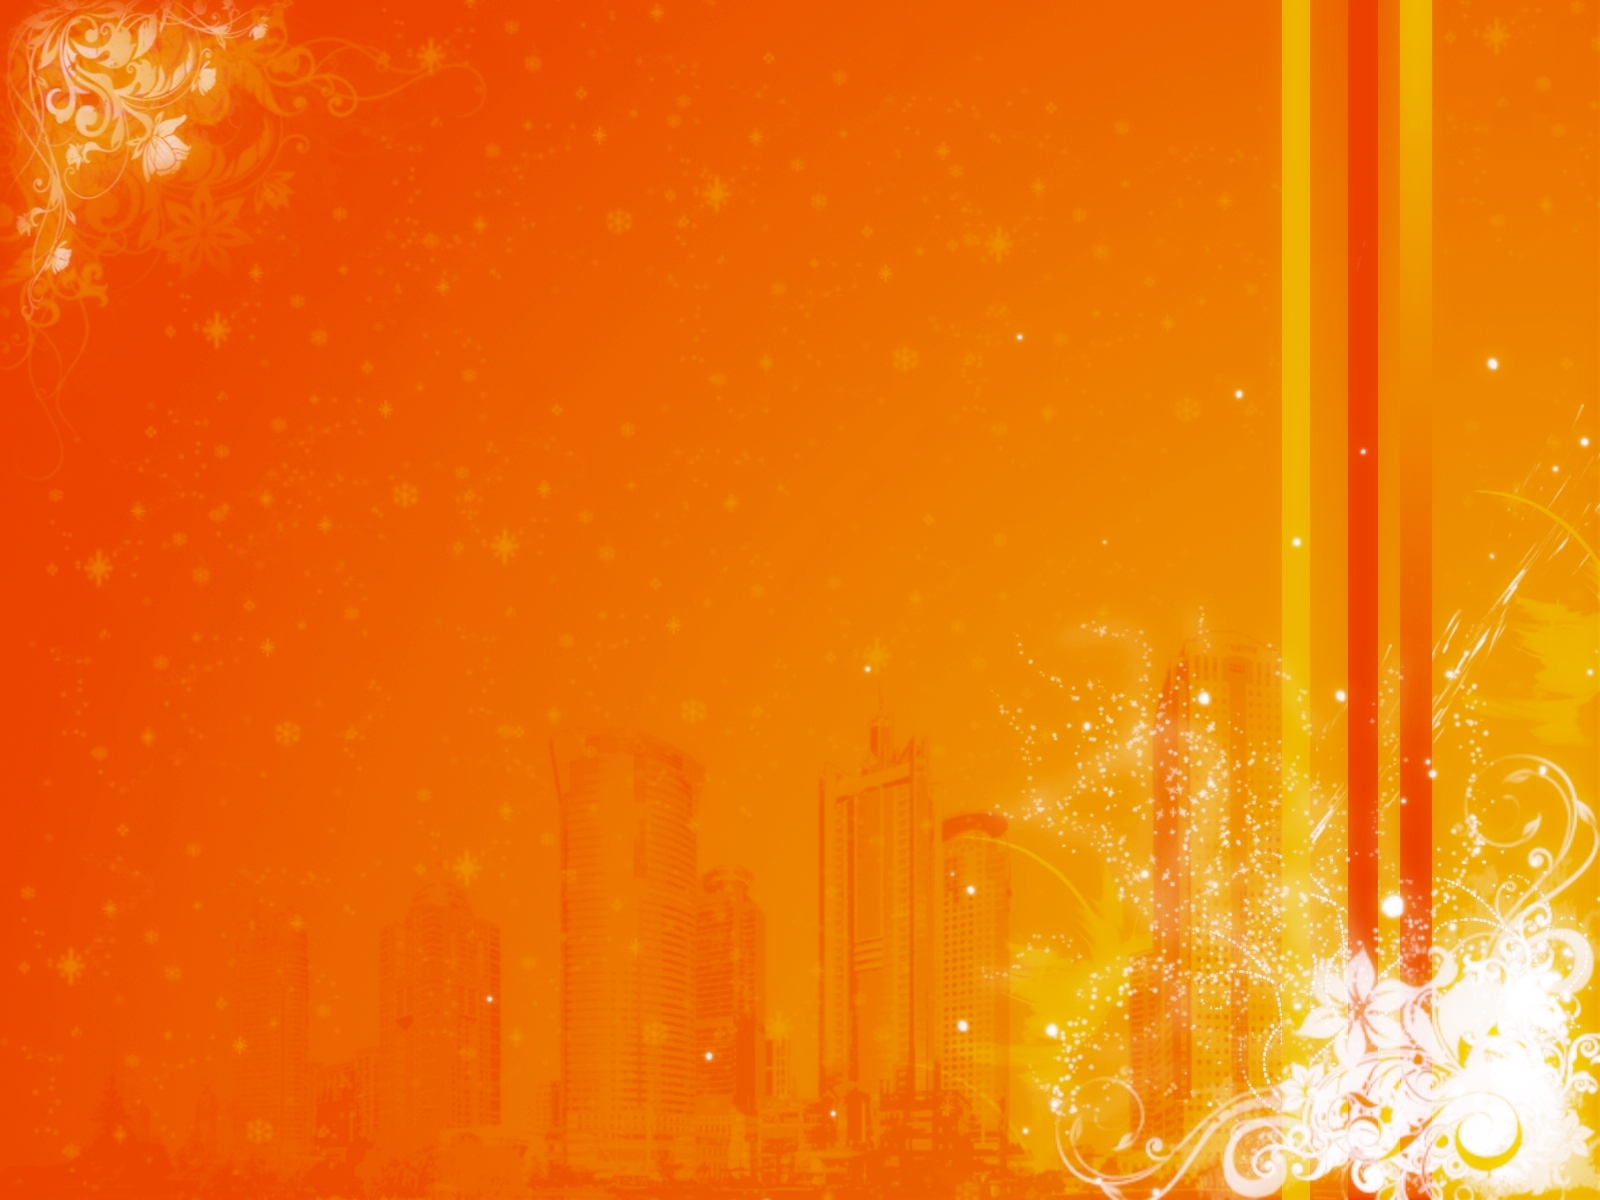
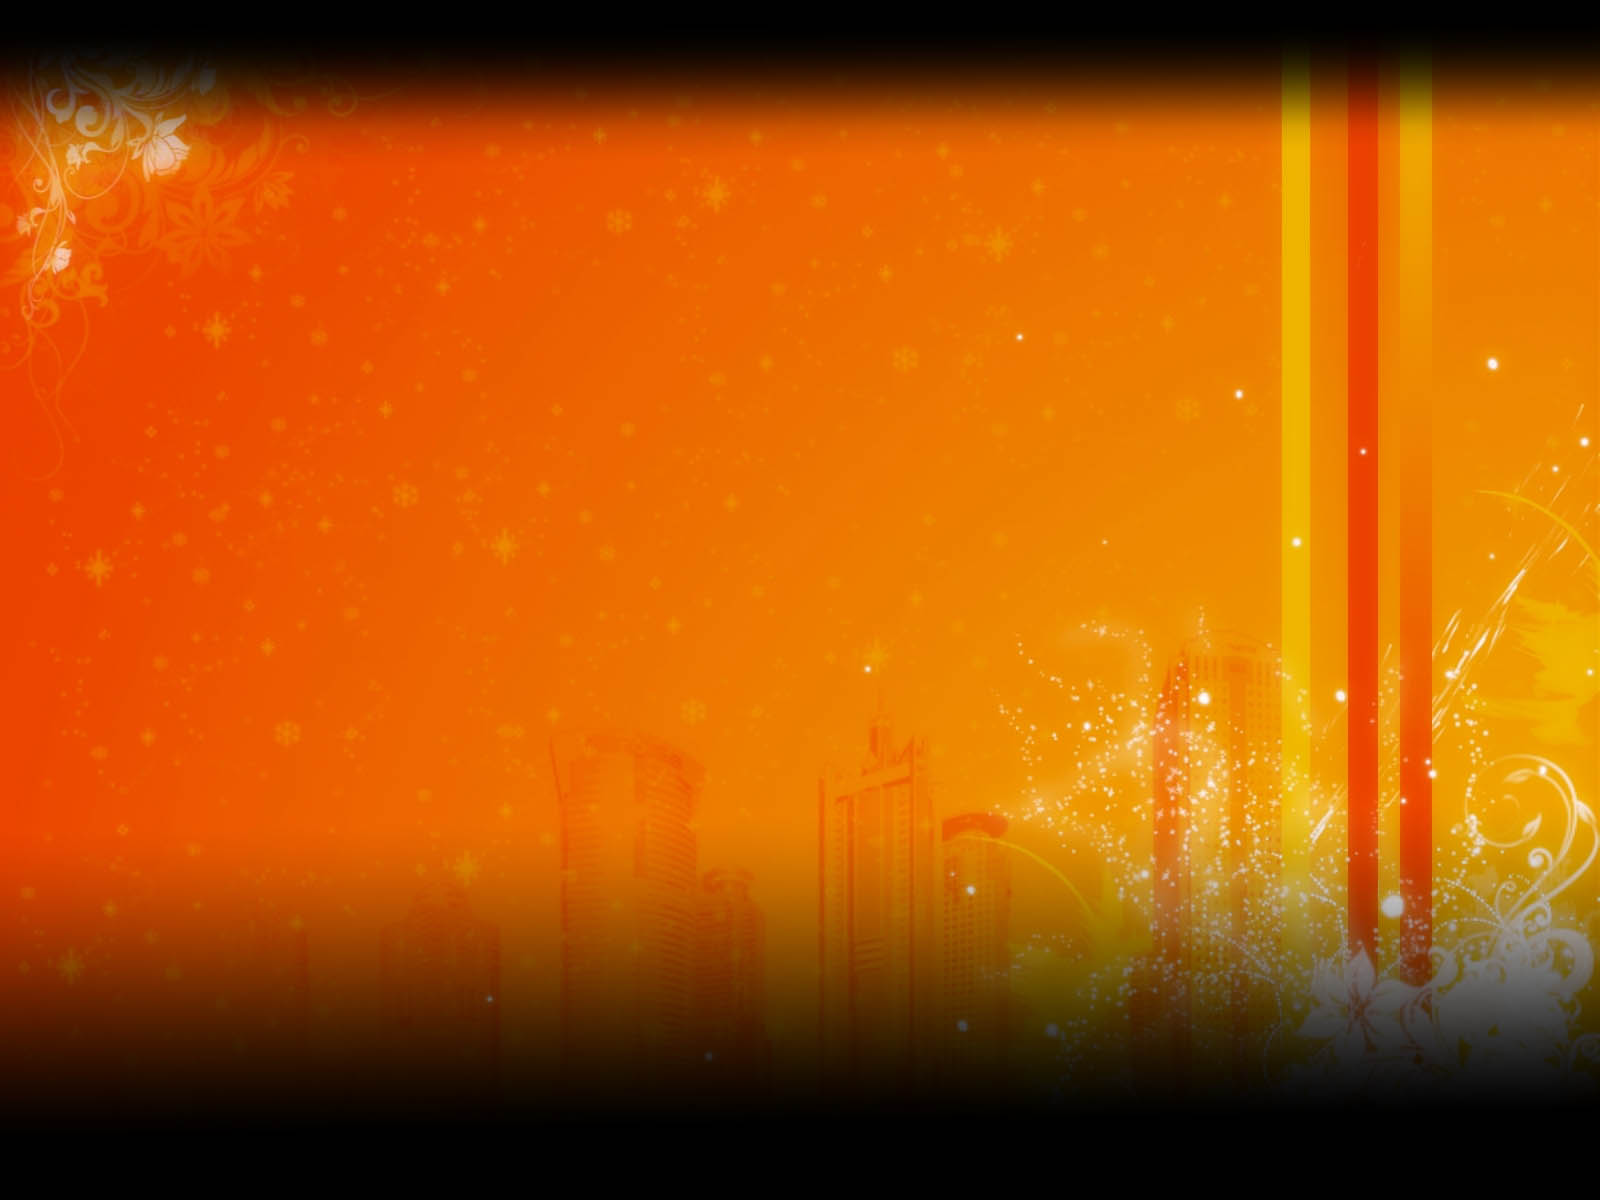
Welcome page changes
Changed CSS, XML, and added some images

diff --git a/RewardsAndRecognition/WebContent/CSS/welcomePage.css b/RewardsAndRecognition/WebContent/CSS/welcomePage.css
@@ -1,26 +1,29 @@
 body{
-	background: lightblue !important;
+/*jbn was here*/	
+	background-color: black;
 	}
 .c1{
 	     text-align:center !important;
 	     color:orange !important;	
 	     }
+	     
+/*jbn was here*/	     
 .but{
-	margin-top:-10% !important;
+	margin-top:-11% !important;
 	color:black !important;
 	font-weight:bolder;
-	border-radius: 34% !important;
-	width:18%;
-	height:14vh !important;
+	border-radius: 100% !important;
+	width:13em;
+	height:13em !important;
 	font-size:10%;
 	cursor:pointer;
     background-color: honeydew !important;
-    box-shadow: 4px 9px 22px #666666;
+    box-shadow: 4px 4px 22px #666666;
     -webkit-transition: margin-left 2s;
     }
    
 .but:hover{
-	background-color: #007cc0 !important;
+	background-color: #f9d300!important;
 }   
 
 .but:focus{
@@ -69,10 +72,13 @@ figure{
   display: inline-block;  position: inherit;
  
 }
+
+/*jbn was here*/	
 .slider img { 
-	width: 100%; 
-	height: 90vh;
+	width: 110%; 
+	height: 87vh;
 	overflow:hidden; 
+
 	}	     	
 #idwelcomePage{
 	overflow:hidden;
@@ -84,18 +90,44 @@ figure{
 
 .sapUiUx3ShellHeaderTitleRight{
 	width:10% !important;
+
 }
 
 .sapUiUx3ShellHeaderTitleRight > a{
 	width: 40%;
     height: 5vh;
-    border-radius: 20%;
+    border-radius: 10%;
 }
 
 .sapUiUx3ShellHeaderTitleLeft{
 	height:5vh;
+
 }
 
+/*jbn was here*/	
 .sapUiUx3ShellHeaderTitleLeft > span{
 	font-size: 4vh !important;
+	visibility: hidden;
 }
+
+
+/*jbn additions*/
+
+.sapUiUx3ShellContent{
+	z-index: -10;
+	background: black;
+}
+
+.affimg img{
+	margin-top:-44% !important;
+    width:50%;	
+}
+	
+.slider img { 
+	-webkit-filter:blur(10px); 
+}
+
+.sapUiUx3ShellHeader-logout{
+	    visibility: hidden;
+}	
+

diff --git a/RewardsAndRecognition/WebContent/CSS/Categories.css b/RewardsAndRecognition/WebContent/CSS/Categories.css
@@ -22,10 +22,13 @@
        border-radius: 50%;
         
     }
-                  
+
+/*jbn was here*/                  
 body{
+background: black;
 	/* background: firebrick !important; */
-	background-image: url("../images/Categories/wp4.jpg") !important;
+
+	/*background-image: url("../images/Categories/wp4.jpg") !important;*/
 	
 }
 
